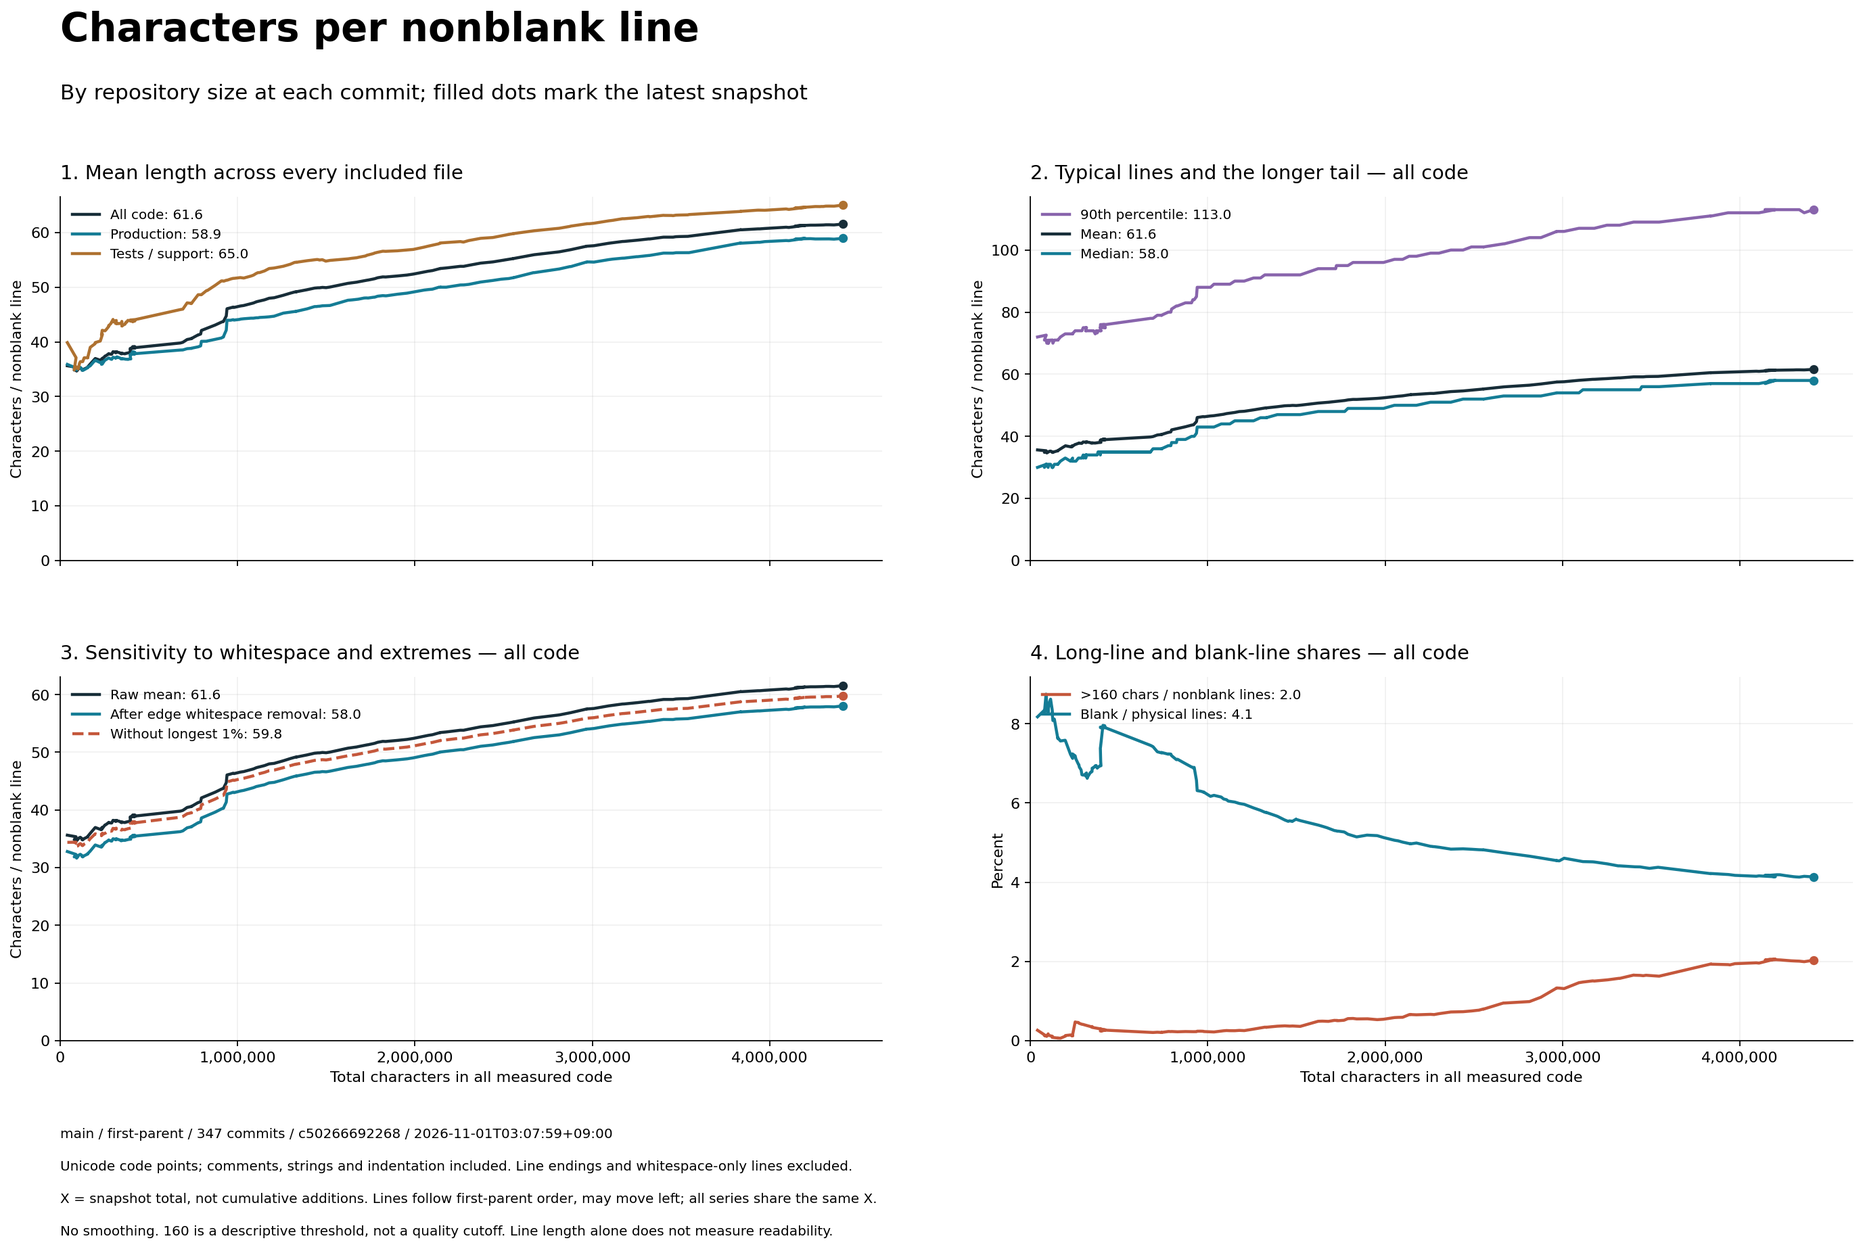
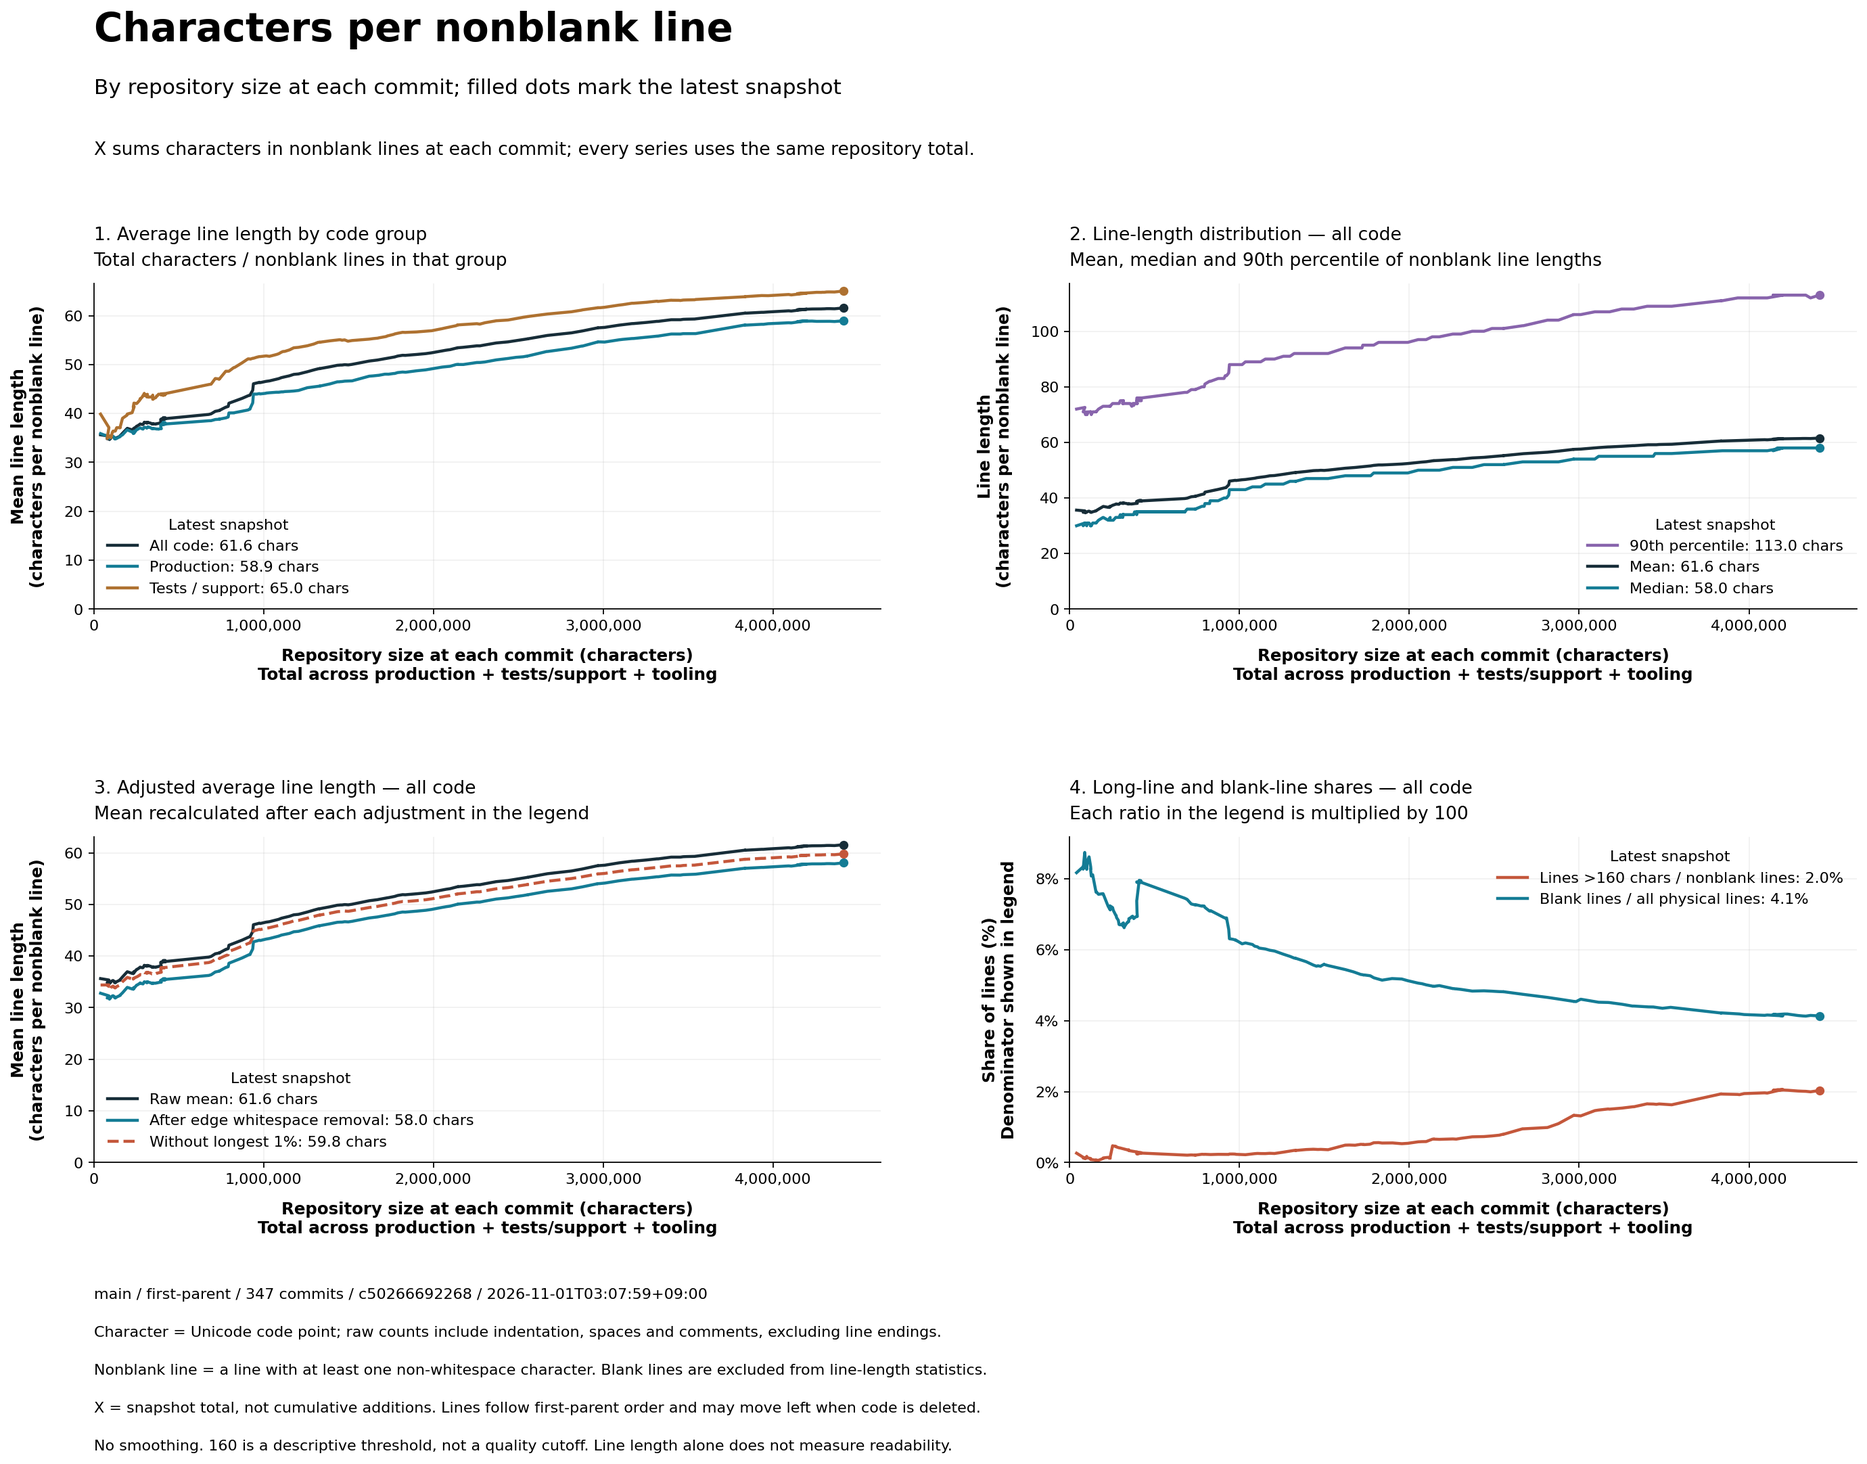
feat: enhance code growth visualization with updated axes labels and improved chart layouts

diff --git a/apps/code-growth/code_density.py b/apps/code-growth/code_density.py
@@ -168,10 +168,10 @@ def write_data(records: list[dict], ref: str, output: Path) -> None:
 
 
 def plot(records: list[dict], ref: str, output: Path, *, by_characters: bool = False) -> None:
-    from growth_charts import SEOUL  # Sets the headless backend before pyplot.
+    from growth_charts import COMMIT_AXIS_LABEL, SEOUL  # Sets the headless backend before pyplot.
     import matplotlib.dates as mdates
     import matplotlib.pyplot as plt
-    from matplotlib.ticker import MaxNLocator, StrMethodFormatter
+    from matplotlib.ticker import MaxNLocator, PercentFormatter, StrMethodFormatter
 
     # Every series uses the same repository total. Keep first-parent order:
     # deletions can move left and equal-size snapshots can have different means.
@@ -180,8 +180,8 @@ def plot(records: list[dict], ref: str, output: Path, *, by_characters: bool = F
         for record in records
     ]
     with plt.style.context("default"):
-        figure, axes = plt.subplots(2, 2, figsize=(18, 12), sharex=True)
-        figure.subplots_adjust(left=0.06, right=0.98, top=0.83, bottom=0.18, hspace=0.32, wspace=0.18)
+        figure, axes = plt.subplots(2, 2, figsize=(18, 14), sharex=True)
+        figure.subplots_adjust(left=0.075, right=0.98, top=0.79, bottom=0.21, hspace=0.70, wspace=0.24)
         overall, distribution, controls, proportions = axes.flat
 
         def line(axis, key, label, color, group="all", **kwargs):
@@ -189,7 +189,8 @@ def plot(records: list[dict], ref: str, output: Path, *, by_characters: bool = F
             if not any(value is not None for value in values):
                 return
             last = values[-1]
-            caption = f"{label}: {last:.1f}" if last is not None else label
+            unit = "%" if axis is proportions else " chars"
+            caption = f"{label}: {last:.1f}{unit}" if last is not None else label
             axis.plot(positions, values, color=color, linewidth=2, label=caption, **kwargs)
             if by_characters and last is not None:
                 axis.plot(positions[-1], last, marker="o", color=color, markersize=5)
@@ -197,26 +198,43 @@ def plot(records: list[dict], ref: str, output: Path, *, by_characters: bool = F
         line(overall, "mean_characters", "All code", "#172d38")
         line(overall, "mean_characters", "Production", "#147c95", "production")
         line(overall, "mean_characters", "Tests / support", "#ae7130", "tests")
-        overall.set_title("1. Mean length across every included file", loc="left", fontsize=13, pad=12)
+        overall.set_title(
+            "1. Average line length by code group\nTotal characters / nonblank lines in that group",
+            loc="left", fontsize=12, pad=12, linespacing=1.6,
+        )
+        overall.set_ylabel("Mean line length\n(characters per nonblank line)", fontsize=11, weight="semibold", labelpad=12)
         line(distribution, "p90_characters", "90th percentile", "#8864ac")
         line(distribution, "mean_characters", "Mean", "#172d38")
         line(distribution, "median_characters", "Median", "#147c95")
-        distribution.set_title("2. Typical lines and the longer tail — all code", loc="left", fontsize=13, pad=12)
+        distribution.set_title(
+            "2. Line-length distribution — all code\nMean, median and 90th percentile of nonblank line lengths",
+            loc="left", fontsize=12, pad=12, linespacing=1.6,
+        )
+        distribution.set_ylabel("Line length\n(characters per nonblank line)", fontsize=11, weight="semibold", labelpad=12)
         line(controls, "mean_characters", "Raw mean", "#172d38")
         line(controls, "mean_stripped_characters", "After edge whitespace removal", "#147c95")
         line(controls, "mean_without_longest_1_percent", "Without longest 1%", "#c4573b", linestyle="--")
-        controls.set_title("3. Sensitivity to whitespace and extremes — all code", loc="left", fontsize=13, pad=12)
-        line(proportions, "over_160_percent", ">160 chars / nonblank lines", "#c4573b")
-        line(proportions, "blank_percent", "Blank / physical lines", "#147c95")
-        proportions.set_title("4. Long-line and blank-line shares — all code", loc="left", fontsize=13, pad=12)
+        controls.set_title(
+            "3. Adjusted average line length — all code\nMean recalculated after each adjustment in the legend",
+            loc="left", fontsize=12, pad=12, linespacing=1.6,
+        )
+        controls.set_ylabel("Mean line length\n(characters per nonblank line)", fontsize=11, weight="semibold", labelpad=12)
+        line(proportions, "over_160_percent", "Lines >160 chars / nonblank lines", "#c4573b")
+        line(proportions, "blank_percent", "Blank lines / all physical lines", "#147c95")
+        proportions.set_title(
+            "4. Long-line and blank-line shares — all code\nEach ratio in the legend is multiplied by 100",
+            loc="left", fontsize=12, pad=12, linespacing=1.6,
+        )
+        proportions.set_ylabel("Share of lines (%)\nDenominator shown in legend", fontsize=11, weight="semibold", labelpad=12)
+        proportions.yaxis.set_major_formatter(PercentFormatter(xmax=100, decimals=0))
 
         for axis in axes.flat:
-            axis.set_ylabel("Characters / nonblank line" if axis is not proportions else "Percent")
             axis.set_ylim(bottom=0)
+            axis.tick_params(axis="both", labelsize=10, labelbottom=True)
             axis.grid(alpha=0.18)
             axis.spines[["top", "right"]].set_visible(False)
             if axis.lines:
-                axis.legend(loc="upper left", frameon=False, fontsize=9)
+                axis.legend(loc="best", frameon=False, fontsize=10, title="Latest snapshot", title_fontsize=10)
             else:
                 axis.text(0.5, 0.5, "No measured nonblank code", transform=axis.transAxes, ha="center")
             if by_characters:
@@ -225,20 +243,31 @@ def plot(records: list[dict], ref: str, output: Path, *, by_characters: bool = F
                 axis.xaxis.set_major_formatter(StrMethodFormatter("{x:,.0f}"))
             else:
                 axis.xaxis.set_major_locator(mdates.AutoDateLocator(minticks=4, maxticks=5, tz=SEOUL))
-                axis.xaxis.set_major_formatter(mdates.DateFormatter("%m.%d\n%Y", tz=SEOUL))
-        for axis in axes[1]:
-            axis.set_xlabel("Total characters in all measured code" if by_characters else "Commit date (Asia/Seoul)")
-        figure.text(0.06, 0.95, "Characters per nonblank line", fontsize=26, weight="bold")
+                axis.xaxis.set_major_formatter(mdates.DateFormatter("%Y-%m-%d", tz=SEOUL))
+            axis.set_xlabel(
+                "Repository size at each commit (characters)\nTotal across production + tests/support + tooling"
+                if by_characters else COMMIT_AXIS_LABEL,
+                fontsize=11, weight="semibold", labelpad=10,
+            )
+        figure.text(0.075, 0.95, "Characters per nonblank line", fontsize=26, weight="bold")
         subtitle = (
             "By repository size at each commit; filled dots mark the latest snapshot"
             if by_characters else
             "Repository-wide measurements at every commit: mean, distribution and sensitivity"
         )
-        figure.text(0.06, 0.905, subtitle, fontsize=14)
-        figure.text(0.06, 0.105, provenance(records, ref), fontsize=9)
-        figure.text(0.06, 0.08, "Unicode code points; comments, strings and indentation included. Line endings and whitespace-only lines excluded." if by_characters else "Unicode code points; comments and strings included. Raw lengths include indentation; line endings are excluded.", fontsize=9)
-        figure.text(0.06, 0.055, "X = snapshot total, not cumulative additions. Lines follow first-parent order, may move left; all series share the same X." if by_characters else "Panels 2–4 pool all measured files. Each snapshot is measured independently; file composition can change over time.", fontsize=9)
-        figure.text(0.06, 0.03, "No smoothing. 160 is a descriptive threshold, not a quality cutoff. Line length alone does not measure readability.", fontsize=9)
+        figure.text(0.075, 0.915, subtitle, fontsize=14)
+        figure.text(
+            0.075, 0.875,
+            "X sums characters in nonblank lines at each commit; every series uses the same repository total."
+            if by_characters else
+            "X follows commit timestamps in Korea Standard Time (UTC+09:00); spacing represents calendar time.",
+            fontsize=12,
+        )
+        figure.text(0.075, 0.12, provenance(records, ref), fontsize=10)
+        figure.text(0.075, 0.095, "Character = Unicode code point; raw counts include indentation, spaces and comments, excluding line endings.", fontsize=10)
+        figure.text(0.075, 0.07, "Nonblank line = a line with at least one non-whitespace character. Blank lines are excluded from line-length statistics.", fontsize=10)
+        figure.text(0.075, 0.045, "X = snapshot total, not cumulative additions. Lines follow first-parent order and may move left when code is deleted." if by_characters else "Panels 2–4 pool all measured files. Each snapshot is measured independently; file composition can change over time.", fontsize=10)
+        figure.text(0.075, 0.02, "No smoothing. 160 is a descriptive threshold, not a quality cutoff. Line length alone does not measure readability.", fontsize=10)
         output.parent.mkdir(parents=True, exist_ok=True)
         figure.savefig(output, dpi=160, bbox_inches="tight")
         plt.close(figure)

diff --git a/apps/code-growth/plot-code-growth.py b/apps/code-growth/plot-code-growth.py
@@ -29,6 +29,7 @@ import matplotlib.pyplot as plt
 from matplotlib import font_manager
 from matplotlib.ticker import FuncFormatter
 
+from growth_charts import COMMIT_AXIS_LABEL
 
 APP_DIR = Path(__file__).resolve().parent
 CLEAN_OUTPUT = APP_DIR / "output" / "repository-code-growth.png"
@@ -56,7 +57,7 @@ def apply_type() -> None:
     plt.rcParams.update(
         {
             "axes.edgecolor": GRID,
-            "axes.labelcolor": MUTED,
+            "axes.labelcolor": INK,
             "axes.titlecolor": INK,
             "text.color": INK,
             "xtick.color": MUTED,
@@ -67,7 +68,7 @@ def apply_type() -> None:
 
 def style_time_axis(axis: plt.Axes) -> None:
     axis.xaxis.set_major_locator(mdates.AutoDateLocator(minticks=4, maxticks=8, tz=SEOUL))
-    axis.xaxis.set_major_formatter(mdates.DateFormatter("%m.%d\n%H:%M", tz=SEOUL))
+    axis.xaxis.set_major_formatter(mdates.DateFormatter("%Y-%m-%d\n%H:%M", tz=SEOUL))
     axis.tick_params(axis="both", which="both", length=0, labelsize=10)
     axis.grid(axis="x", color=GRID, linewidth=0.8, alpha=0.48)
     axis.grid(axis="y", color=GRID, linewidth=0.9, alpha=0.72)
@@ -122,6 +123,21 @@ def add_footer(figure: plt.Figure, records: list[dict], ref: str) -> None:
     figure.text(0.075, 0.015, LIMIT_NOTE, fontsize=8.5, color=MUTED)
 
 
+def label_growth_axes(growth_axis: plt.Axes, delta_axis: plt.Axes) -> None:
+    growth_axis.set_ylabel(
+        "Total code size (lines)\nIncludes blank lines and comments",
+        fontsize=12, weight="semibold", labelpad=14,
+    )
+    growth_axis.tick_params(axis="x", labelbottom=False)
+    delta_axis.set_ylabel("Net change\n(lines / commit)", fontsize=11, weight="semibold", labelpad=14)
+    delta_axis.set_xlabel(COMMIT_AXIS_LABEL, fontsize=11, weight="semibold", labelpad=10)
+    delta_axis.text(
+        0, 1.08,
+        "Change = current total - previous first-parent total; first commit is compared with 0.",
+        transform=delta_axis.transAxes, fontsize=10, color=INK,
+    )
+
+
 def save_clean(records: list[dict], ref: str, output: Path) -> None:
     times = [record["time"] for record in records]
     lines = [record["lines"] for record in records]
@@ -131,20 +147,17 @@ def save_clean(records: list[dict], ref: str, output: Path) -> None:
         2,
         1,
         height_ratios=(5.0, 1.25),
-        left=0.055,
+        left=0.095,
         right=0.99,
         top=0.985,
-        bottom=0.17,
-        hspace=0.08,
+        bottom=0.24,
+        hspace=0.22,
     )
     growth_axis = figure.add_subplot(grid[0])
     delta_axis = figure.add_subplot(grid[1], sharex=growth_axis)
     draw_growth(growth_axis, times, lines)
-    growth_axis.set_ylabel("Physical LOC")
-    growth_axis.tick_params(axis="x", labelbottom=False)
     draw_deltas(delta_axis, times, deltas)
-    delta_axis.set_ylabel("Net change")
-    delta_axis.set_xlabel("Commit date (Asia/Seoul)")
+    label_growth_axes(growth_axis, delta_axis)
     add_footer(figure, records, ref)
     figure.savefig(output, transparent=True, bbox_inches="tight")
     plt.close(figure)
@@ -163,21 +176,17 @@ def save_detailed(records: list[dict], ref: str, output: Path) -> None:
         2,
         1,
         height_ratios=(5.0, 1.25),
-        left=0.075,
+        left=0.095,
         right=0.985,
         top=0.80,
-        bottom=0.17,
-        hspace=0.08,
+        bottom=0.24,
+        hspace=0.24,
     )
     growth_axis = figure.add_subplot(grid[0])
     delta_axis = figure.add_subplot(grid[1], sharex=growth_axis)
     draw_growth(growth_axis, times, lines)
-    growth_axis.set_ylabel("Physical LOC (including blanks/comments)", fontsize=10, labelpad=14)
-    growth_axis.tick_params(axis="x", labelbottom=False)
-
     draw_deltas(delta_axis, times, deltas)
-    delta_axis.set_ylabel("Change per commit", fontsize=10, labelpad=14)
-    delta_axis.set_xlabel("Commit date (Asia/Seoul)")
+    label_growth_axes(growth_axis, delta_axis)
 
     figure.text(0.075, 0.935, "Setdown code growth", fontsize=25, weight="bold")
     figure.text(

diff --git a/apps/code-growth/growth_charts.py b/apps/code-growth/growth_charts.py
@@ -17,10 +17,16 @@ from matplotlib.ticker import StrMethodFormatter
 from metrics import LIMIT_NOTE, SCOPE_NOTE, VIEWS, provenance
 
 SEOUL = ZoneInfo("Asia/Seoul")
+COMMIT_AXIS_LABEL = "Commit timestamp (Asia/Seoul, UTC+09:00)\nCalendar time at each measured commit"
 TITLES = {
     "components": ("Setdown architecture", "All measured code; tests and tooling are separate components"),
     "features": ("Setdown product features", "Production source only; files grouped by path-based responsibility"),
     "tests": ("Setdown test code", "Unit/service, E2E/integration, support and code fixtures"),
+}
+SIZE_LABELS = {
+    "components": "Total measured code (lines)",
+    "features": "Production code (lines)",
+    "tests": "Test and support code (lines)",
 }
 
 
@@ -36,7 +42,7 @@ def _plot_breakdown(records: list[dict], output: Path, view: str, ref: str) -> N
     times = [record["time"] for record in records]
     final = records[-1][view]
     figure, axis = plt.subplots(figsize=(16, 9))
-    figure.subplots_adjust(left=0.07, right=0.73, top=0.83, bottom=0.17)
+    figure.subplots_adjust(left=0.095, right=0.73, top=0.80, bottom=0.24)
     keys = [
         key for key in sorted(labels, key=lambda key: final[key], reverse=True)
         if any(record[view][key] for record in records)
@@ -50,20 +56,32 @@ def _plot_breakdown(records: list[dict], output: Path, view: str, ref: str) -> N
             colors=[palette(index) for index in range(len(keys))],
             step="post", baseline="zero", alpha=0.9, linewidth=0.4, edgecolor="white",
         )
-        axis.legend(loc="upper left", bbox_to_anchor=(1.02, 1), frameon=False, fontsize=10, labelspacing=1)
+        axis.legend(
+            loc="upper left", bbox_to_anchor=(1.02, 1), frameon=False,
+            fontsize=10, labelspacing=1, title="Category: latest size (lines)", title_fontsize=11,
+        )
     else:
         axis.text(0.5, 0.5, "No measured code in this view", transform=axis.transAxes, ha="center")
     axis.set_ylim(bottom=0, top=max(1, max(sum(record[view].values()) for record in records) * 1.05))
-    axis.set_ylabel("Physical LOC (including blank lines and comments)")
-    axis.set_xlabel("Commit date (Asia/Seoul; calendar time, not working hours)")
+    axis.set_ylabel(
+        f"{SIZE_LABELS[view]}\nIncludes blank lines and comments",
+        fontsize=12, weight="semibold", labelpad=14,
+    )
+    axis.set_xlabel(COMMIT_AXIS_LABEL, fontsize=11, weight="semibold", labelpad=10)
     axis.yaxis.set_major_formatter(StrMethodFormatter("{x:,.0f}"))
     axis.xaxis.set_major_locator(mdates.AutoDateLocator(minticks=4, maxticks=8, tz=SEOUL))
-    axis.xaxis.set_major_formatter(mdates.DateFormatter("%m.%d\n%Y", tz=SEOUL))
+    axis.xaxis.set_major_formatter(mdates.DateFormatter("%Y-%m-%d", tz=SEOUL))
+    axis.tick_params(axis="both", labelsize=10)
     axis.grid(alpha=0.2)
     axis.spines[["top", "right"]].set_visible(False)
     title, description = TITLES[view]
     figure.text(0.07, 0.94, title, fontsize=24, weight="bold")
     figure.text(0.07, 0.895, f"{description} | Total: {sum(final.values()):,} lines", fontsize=12)
+    figure.text(
+        0.07, 0.85,
+        "How to read Y: each band's thickness = category line count; top of the stack = total.",
+        fontsize=11,
+    )
     figure.text(0.07, 0.09, provenance(records, ref), fontsize=9)
     figure.text(0.07, 0.065, SCOPE_NOTE, fontsize=9)
     figure.text(0.07, 0.04, LIMIT_NOTE, fontsize=9)

diff --git a/apps/code-growth/README.md b/apps/code-growth/README.md
@@ -42,6 +42,22 @@ The component output keeps its existing `-line` filename for compatibility.
 The first delta is the initial snapshot's
 size; later deltas compare consecutive first-parent snapshots, including merges.
 
+### Reading the axes
+
+Axis labels include units, and each density panel repeats its X axis. Date ticks
+use `YYYY-MM-DD`; timestamps are shown in Asia/Seoul (UTC+09:00).
+
+| Chart | X axis | Y axis |
+| --- | --- | --- |
+| Total growth, both versions | Commit timestamp, spaced by calendar time | Upper: lines present at that commit, including blanks/comments. Lower: current total minus previous first-parent total, in lines per commit; the first commit is compared with zero. |
+| Architecture / features / tests | Commit timestamp, spaced by calendar time | Physical lines in the stated scope. Each band's thickness is its category's count; the top of the stack is the total. |
+| Density by date | Commit timestamp, spaced by calendar time | Panels 1–3: characters per nonblank line (mean, distribution or adjusted mean). Panel 4: line shares in percent, with each denominator in the legend. |
+| Density by characters | Characters present in all measured code at that commit, shared by every series | The same density metrics as the date version. X counts the snapshot's characters, not cumulative additions. |
+
+Density panel 1 explicitly shows the mean formula; panel 4 shows percentage ticks
+and the ratio used by each series. Density legends and breakdown legends report
+the latest snapshot's values with units.
+
 Growth CSV rows share `commit`, `committed_at`, `elapsed_hours` and `total`. `total` is the
 sum of the categories **within that view**:
 
